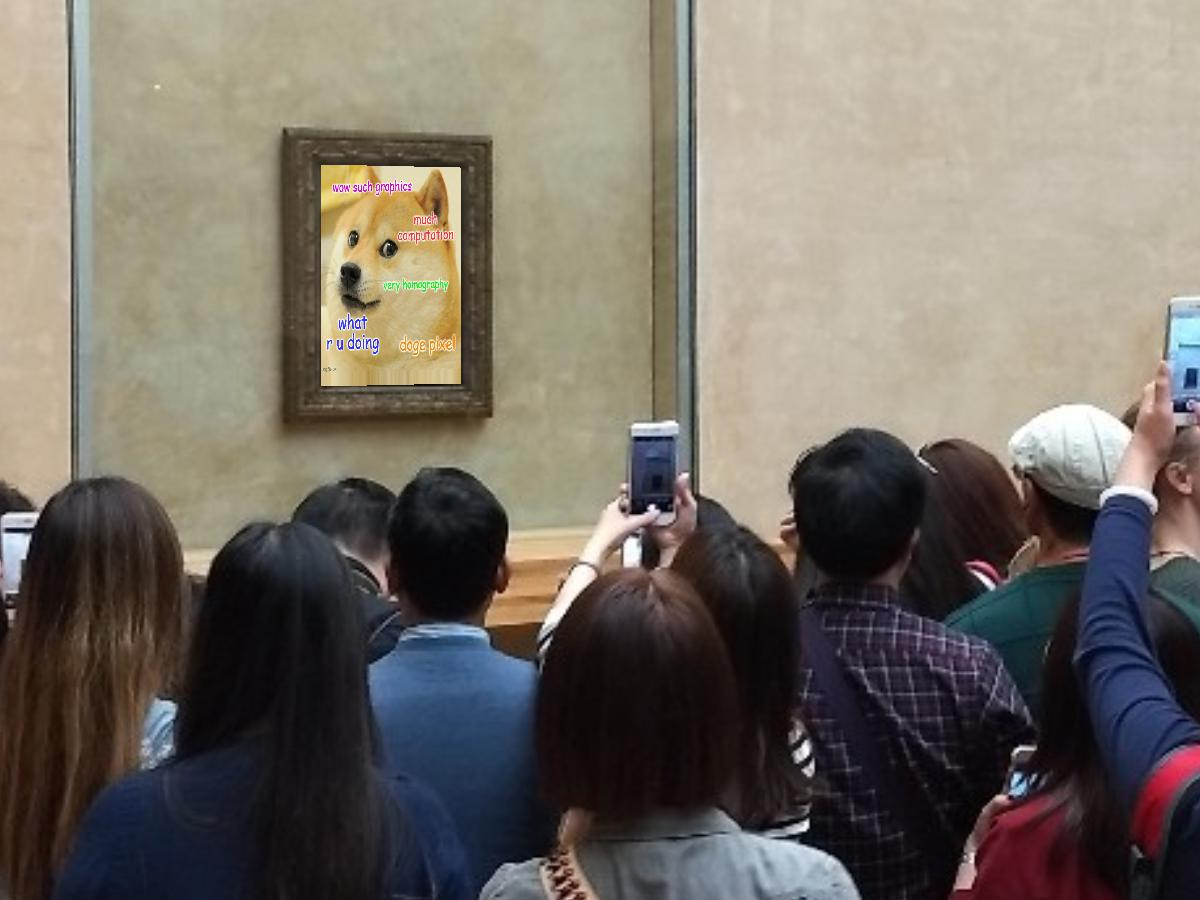
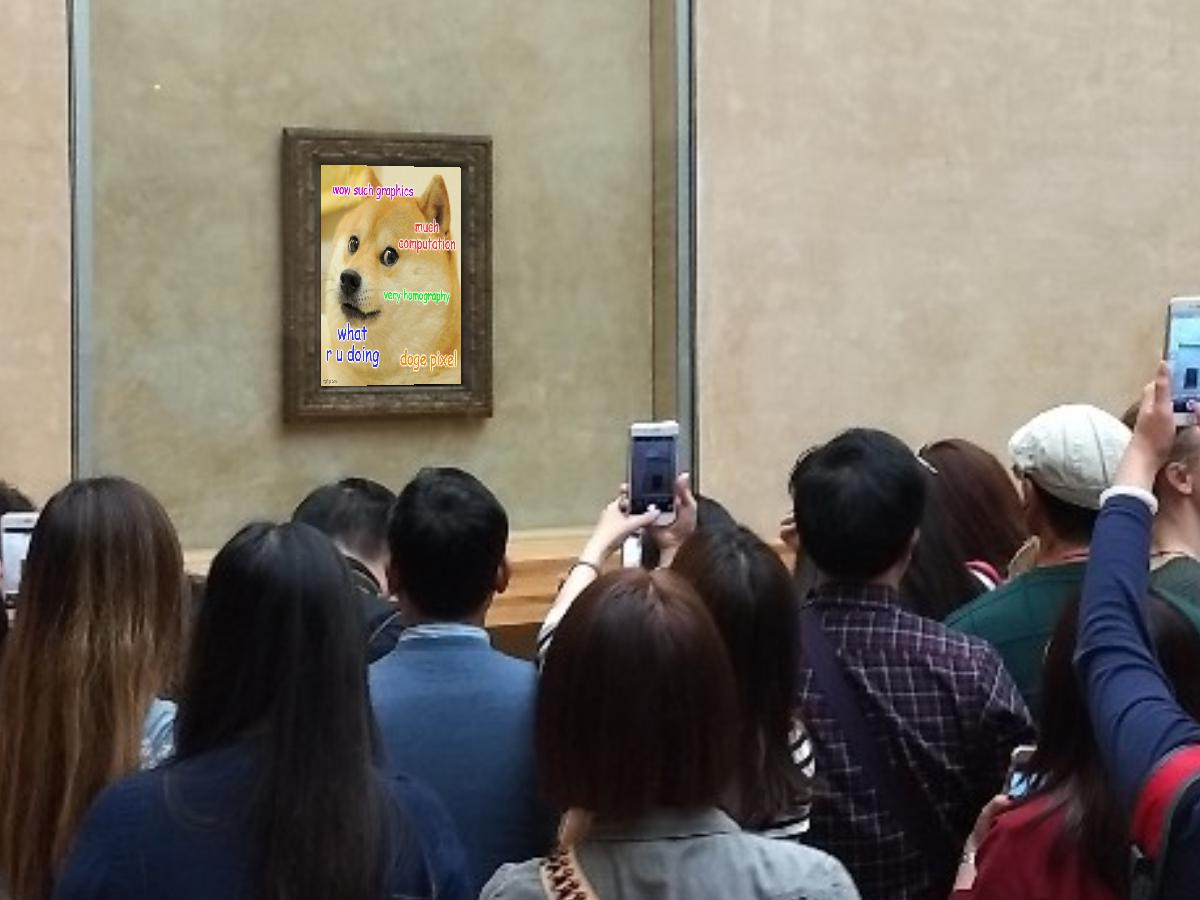
Fixed homography

Changed region(s): [[0.2467, 0.1867, 0.4008, 0.4356]]

diff --git a/utils/homography.py b/utils/homography.py
@@ -5,16 +5,12 @@ from typing import List
 def solve_lin(matrix_u,vector_d):
     """
     Solve matrix_u*hom=vector_d to find hom
-    
-    matrix_u = 
-        |x0 y0 1  0  0  0  0  0  0  0  0  0|
-        |0  0  0  x0 y0 1  0  0  0  0  0  0|
-        |              ...                 |
-        |0  0  0  x3 y3 1  0  0  0  0 y'3 0|
-        |0  0  0  0  0  0  x3 y3 1  0  0  1|
     """
     m_np = np.array(matrix_u)
     v_np = np.array(vector_d)
+    print(m_np)
+    print(v_np)
+
     return np.linalg.solve(m_np, v_np)
 
 
@@ -40,14 +36,15 @@ def find_h_inv(picture_pixels, decal_pixels):
 
     # Build the right side of linear system
     vector_d = p_pixels[0]+[0]*9
+    print(p_pixels)
     # Build 12x12 matrix
-    aux_list = [[0,0,0]]+p_pixels[1:]
     matrix_u = []
     for idx, pixel in enumerate(d_pixels):
         for i in range(3):
             # coefficients for lambdas to complete each row 
             lambdas = [0,0,0]
-            lambdas[i] = -aux_list[idx][i]
+            if idx != 0:
+                lambdas[idx-1] = -p_pixels[idx][i]
             # Build each row by adding 0's and the lambdas coefficients
             matrix_u.append([0]*(i*3)+pixel+[0]*(6-i*3)+lambdas)
     # Solve the linear system
@@ -56,7 +53,11 @@ def find_h_inv(picture_pixels, decal_pixels):
     # of the solution, the remaining 3 are the lambdas
     hom = [sol[i*3:(i+1)*3] for i in range(3)]
     h_inv = np.linalg.inv(hom)
-    print(np.dot(hom, [499,499,1]))
+    # # Test 
+    # print(np.dot(hom, [0,0,1]))
+    # print(np.dot(hom, [499,0,1]))
+    # print(np.dot(hom, [499,499,1]))
+    # print(np.dot(hom, [0,499,1]))
     return h_inv
 
 

diff --git a/main.py b/main.py
@@ -19,8 +19,8 @@ cwd = os.getcwd()
 picture = Image.open(os.path.join(cwd, "images", PICTURE))
 decal = Image.open(os.path.join(cwd, "images", DECAL))
 polygon = get_polygon(PICTURE_BORDER)
-limit = (decal.width-1, decal.height-1)
-DECAL_BORDER = [(0,0), (limit[0]+1,0), (limit[0]+1, limit[1]+1), (0, limit[1]+1)]
+limit = (decal.width-0.009, decal.height-0.009)
+DECAL_BORDER = [(0,0), (500,0), (500, 500), (0, 500)]
 
 # Find Inverse Homography
 h_inv = find_h_inv(PICTURE_BORDER, DECAL_BORDER)
